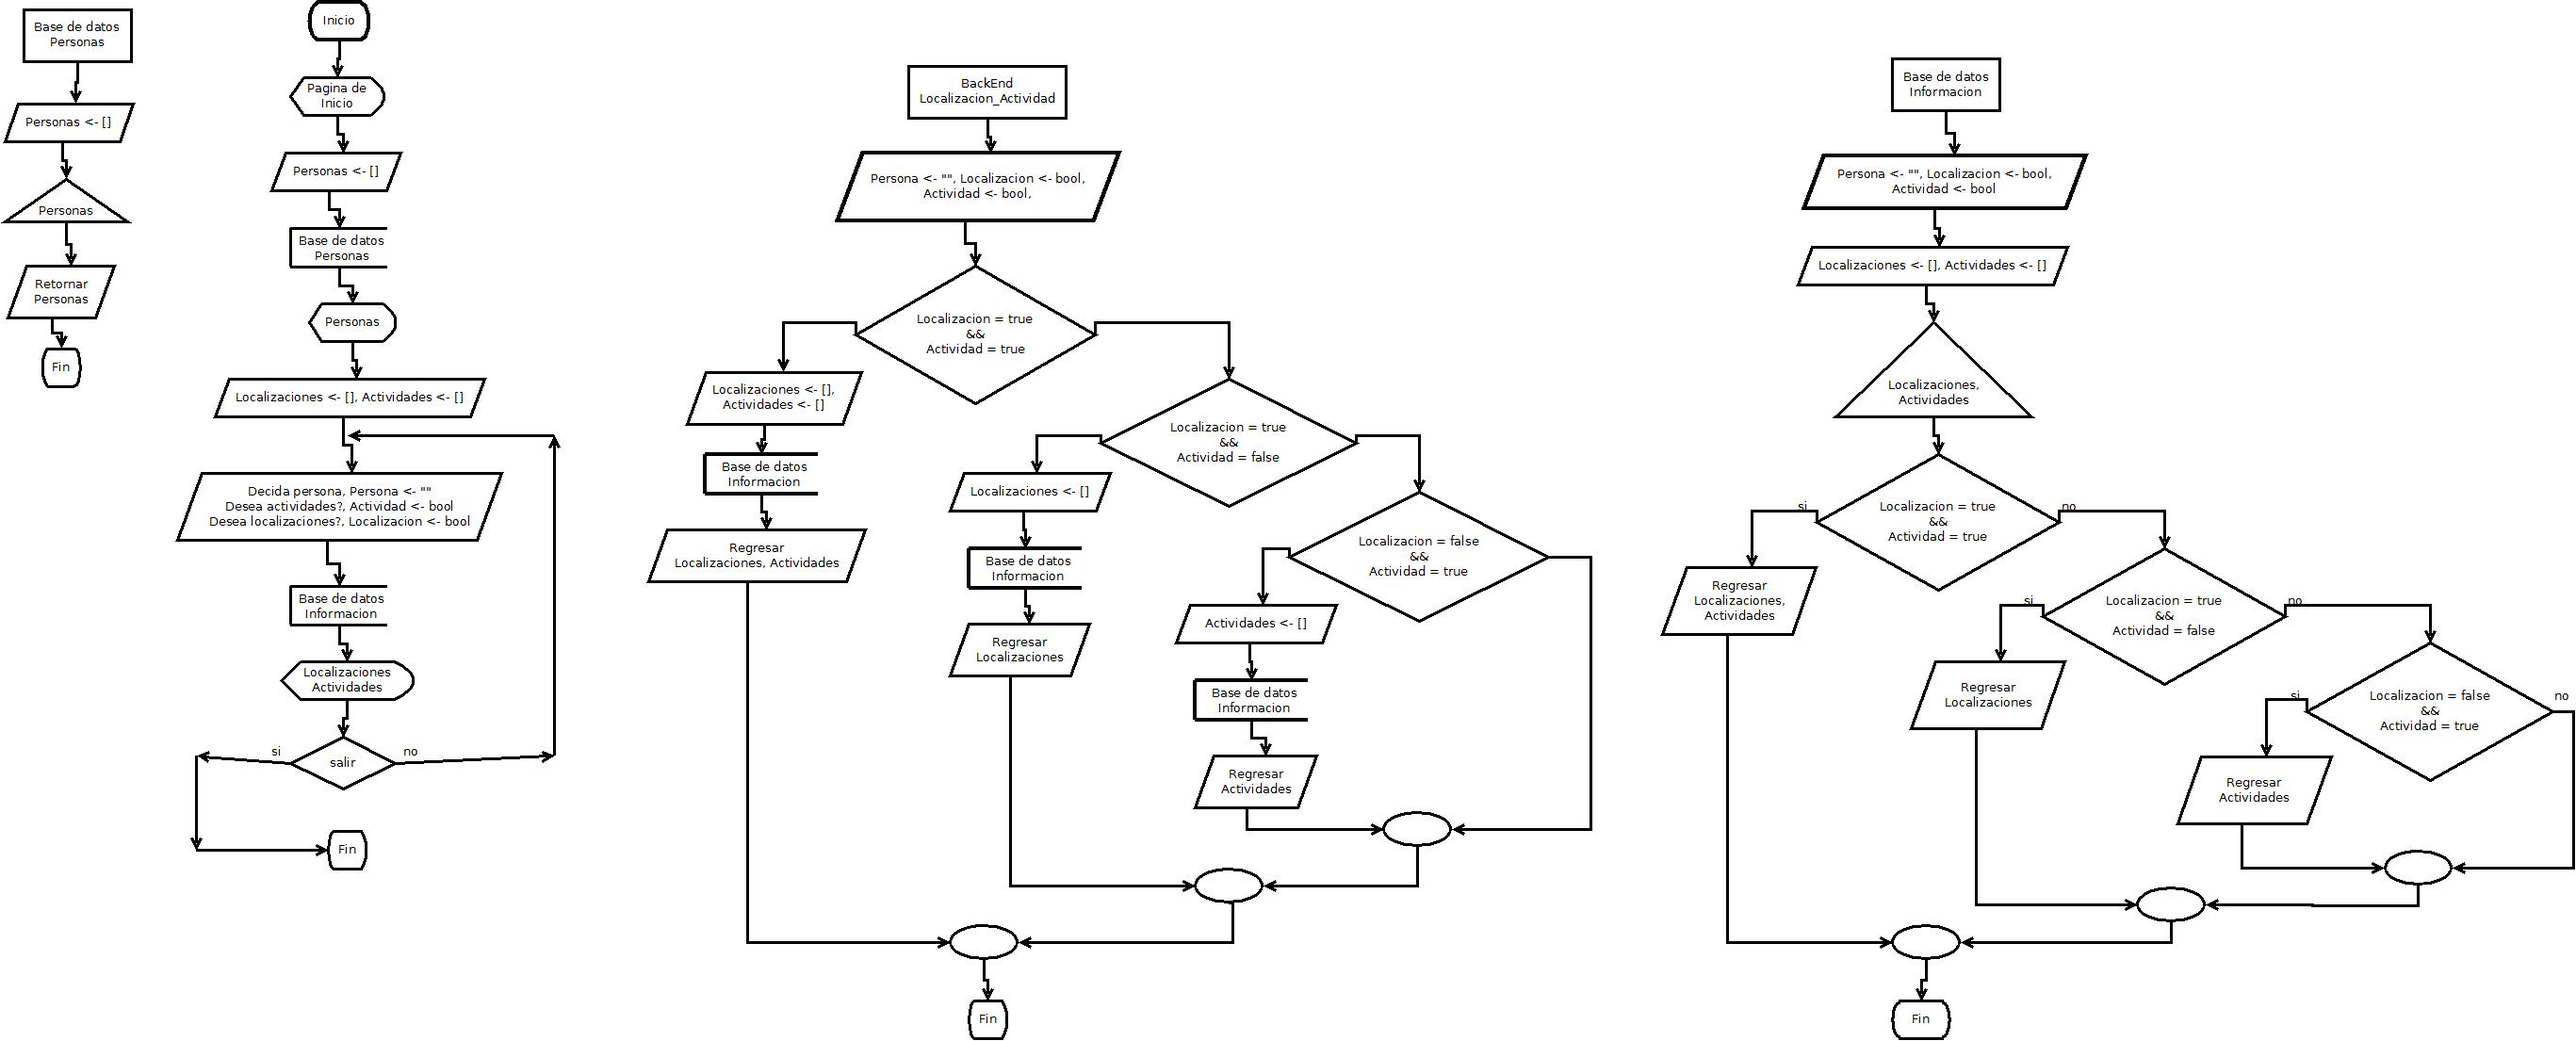
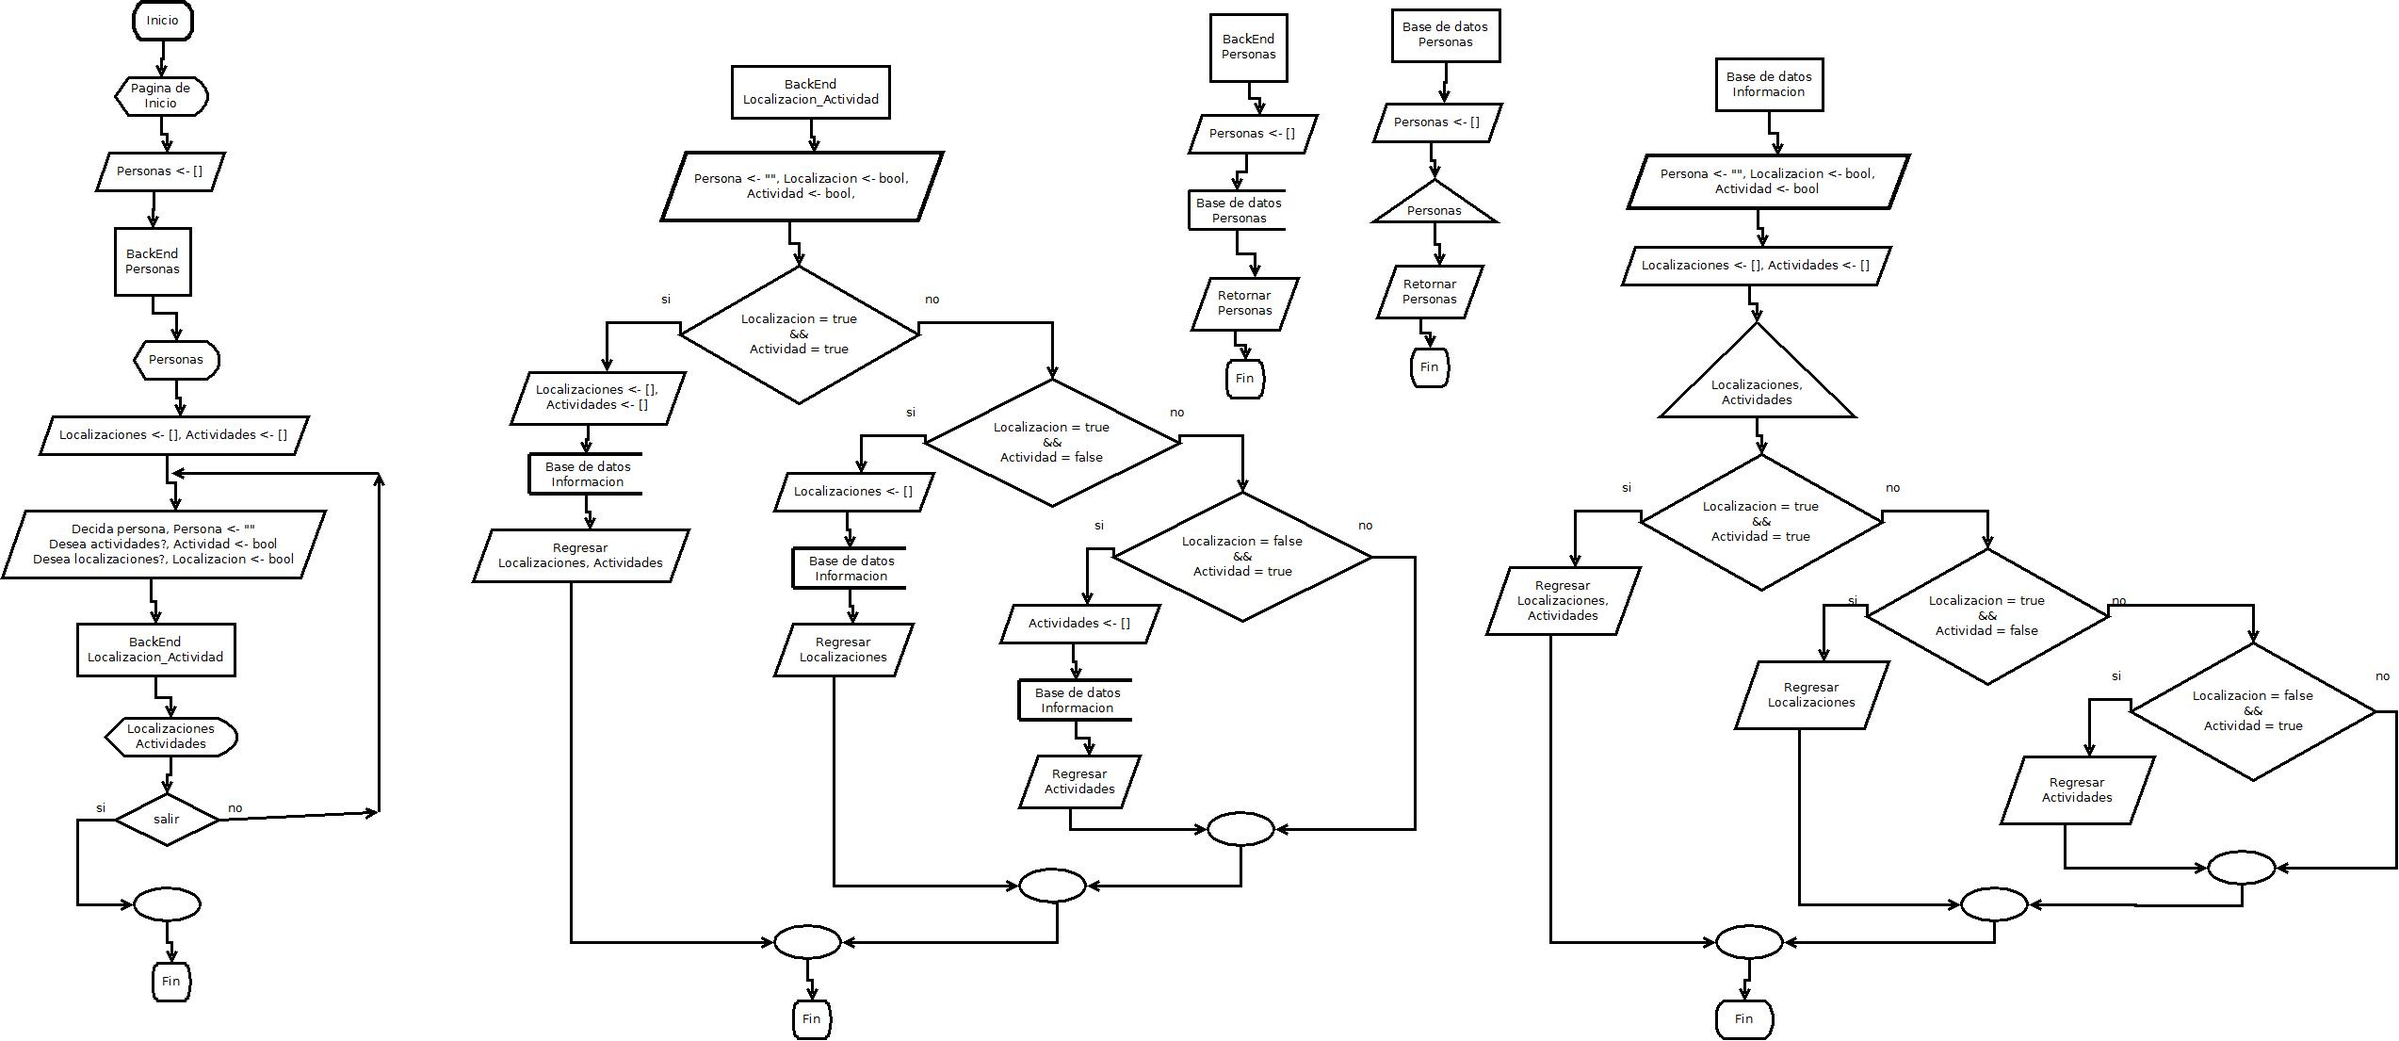
Archivo de index editado. Falta comunicacion con BackEnd.

diff --git a/Web/index.html b/Web/index.html
@@ -8,6 +8,39 @@
     </head>
     <body>
         <div id="Navegacion"></div>
+        <br />
+        <div id="Nombres" class="w3-row-padding">
+            <div class="w3-half">
+                <input class="w3-input w3-border" type="text" placeholder="Nombre">
+            </div>
+            <div class="w3-half">
+                <input class="w3-input w3-border" type="text" placeholder="Segundo Nombre">
+            </div>
+        </div>
+        <div id="Apellidos" class="w3-row-padding">
+            <div class="w3-half">
+                <input class="w3-input w3-border" type="text" placeholder="Apellido Paterno">
+            </div>
+            <div class="w3-half">
+                <input class="w3-input w3-border" type="text" placeholder="Apellido Materno">
+            </div>
+        </div>
+        <br />
+        <button class="w3-btn w3-large w3-green">Buscar a un ente</button>
+        <br /><br />
+        <div id="Informacion" class="w3-row-padding">
+            <div class="w3-half">
+                Lugares:
+                <ul id="Lugares" class="w3-ul" style="height:130px; overflow:hidden; overflow-y:scroll;">
+                </ul>
+            </div>
+            <div class="w3-half">
+                Actividades:
+                <ul id="Actividades" class="w3-ul" style="height:130px; overflow:hidden; overflow-y:scroll;">
+                </ul>
+            </div>
+        </div>
+        <img src="Imagenes/MapaITT.jpg" alt="Mapa Tecnologico" style="width:100%">
     </body>
     <script src="https://ajax.googleapis.com/ajax/libs/jquery/3.1.0/jquery.min.js"></script>
     <script src="JavaScript/Funciones.js"></script>

diff --git a/Web/Partes/Navegacion.html b/Web/Partes/Navegacion.html
@@ -1,11 +1,8 @@
 <nav class="w3-sidenav w3-white w3-animate-left" style="display:none;z-index:5" id="mySidenav">
   <a href="javascript:void(0)" onclick="w3_close()" 
-  class="w3-closenav w3-large">Close &times;</a>
-  <a href="#">Link 1</a>
-  <a href="#">Link 2</a>
-  <a href="#">Link 3</a>
-  <a href="#">Link 4</a>
-  <a href="#">Link 5</a>
+  class="w3-closenav w3-large">Cerrar &times;</a>
+  <a href="index.html">Inicio</a>
+  <a href="#">Sobre</a>
 </nav>
 
 <div class="w3-overlay w3-animate-opacity" onclick="w3_close()" style="cursor:pointer" id="myOverlay"></div>

diff --git a/Documentacion/LyA2/PseudocodigoDeFlujo.md b/Documentacion/LyA2/PseudocodigoDeFlujo.md
@@ -2,26 +2,26 @@
 1. Inicio.
 2. Pagina de inicio.
 3. Personas <- [].
-4. Llamar procedimiento "Personas".
+4. BackEnd, "Personas".
 5. Desplegar, Personas.
 6. Localizaciones <- [], Actividades <- [].
 7. Desplegar "Decida persona", Persona <- "".
 8. Desplegar "Desea actividades?", Actividad <- bool
 9. Desplegar "Desea localizaciones?", Localizacion <- bool
-10. Llamar procedimiento "Informacion".
+10. BackEnd, "Informacion".
 11. Desplegar Localizaciones, Actividades.
 12. Si salir = true, paso 13. Sino, paso 7.
 13. Fin.
 
 # Base de datos  
-Personas
+## Personas
 1. Inicio.
 2. Personas <- [].
 3. Extraer, Personas.
 4. Retornar, Personas.
 5. Fin.
 
-Informacion
+## Informacion
 1. Inicio.
 2. Persona <- "", Localizacion <- bool, Actividad <- bool.
 3. Localizaciones <- [], Actividades <- [].
@@ -36,3 +36,28 @@ Informacion
 12. Regresar Actividades.
 13. Paso 14.
 14. Fin.
+
+# BackEnd  
+## Personas
+1. Inicio.
+2. Personas <- [].
+3. Base de datos, Personas.
+4. Retornar, Personas.
+5. Fin.
+
+## Localizacion_Actividad  
+1. Inicio.
+2. Persona <- "", Localizacion <- bool, Actividad <- bool.
+3. Localizacion = true && Actividad = true, paso 4. Sino, paso 7.
+4. Localizaciones <- [], Actividades <- [].
+5. Base de datos, Informacion.
+6. Regresar Localizaciones, Actividades.
+7. Localizacion = true && Actividad = false, paso 8. Sino, paso 11.
+8. Localizaciones <- [].
+9. Base de datos, Informacion.
+10. Regresar Localizaciones.
+11. Localizacion = false && Actividad = true, paso 12. Sino, paso 15.
+12. Actividades <- [].
+13. Base de datos, Informacion.
+14. Regresar Actividades.
+15. Fin.
